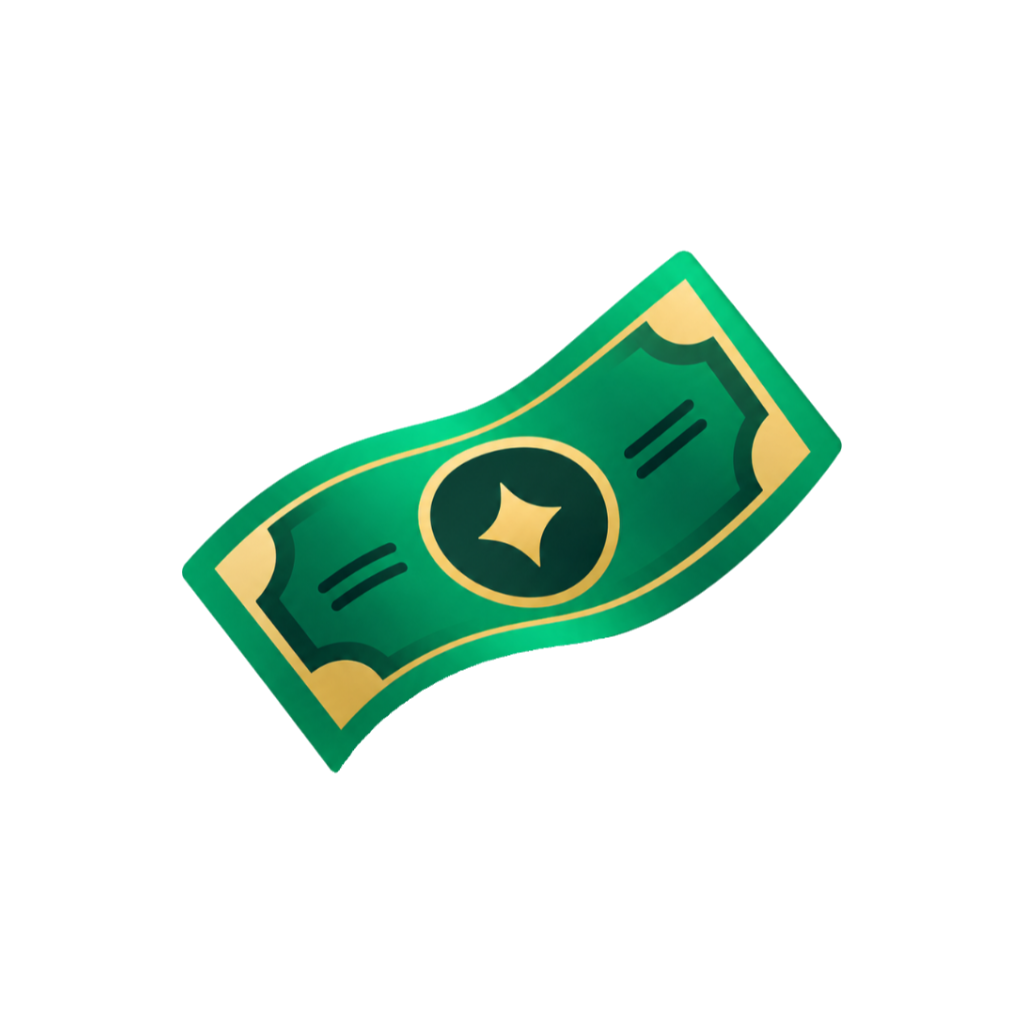
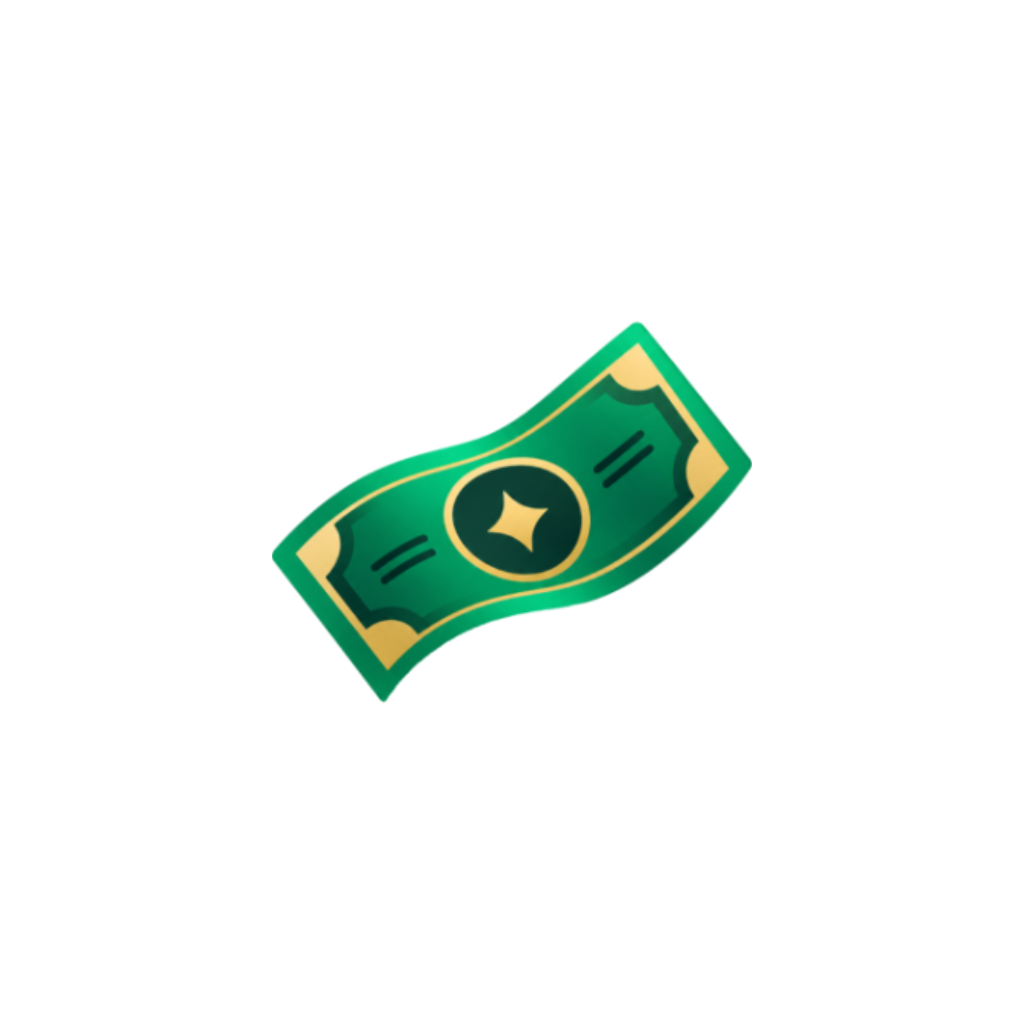
fix: instant test notification, reminder form keyboard scroll, and config updates

Changed region(s): [[0.1562, 0.25, 0.8438, 0.75]]

diff --git a/components/settings/ReminderManagerModal.tsx b/components/settings/ReminderManagerModal.tsx
@@ -1,4 +1,4 @@
-import React, { useState } from 'react';
+import React, { useState, useRef } from 'react';
 import {
   View,
   Text,
@@ -41,12 +41,27 @@ export function ReminderManagerModal({ visible, onClose }: ReminderManagerModalP
   const [minute, setMinute] = useState('00');
   const [label, setLabel] = useState('');
 
+  // Scroll ref for auto-scrolling when keyboard opens or accordion expands
+  const scrollViewRef = useRef<ScrollView>(null);
+
+  const scrollToBottom = () => {
+    setTimeout(() => {
+      scrollViewRef.current?.scrollToEnd({ animated: true });
+    }, 120);
+  };
+
   // Feedback state for test notification
   const [isTesting, setIsTesting] = useState(false);
   const [testFeedback, setTestFeedback] = useState<string | null>(null);
 
   const handleToggleAdd = () => {
-    setIsAdding((prev) => !prev);
+    setIsAdding((prev) => {
+      const next = !prev;
+      if (next) {
+        scrollToBottom();
+      }
+      return next;
+    });
   };
 
   const handleSaveReminder = async () => {
@@ -94,6 +109,7 @@ export function ReminderManagerModal({ visible, onClose }: ReminderManagerModalP
       maxHeight="88%"
     >
       <ScrollView
+        ref={scrollViewRef}
         showsVerticalScrollIndicator={false}
         keyboardShouldPersistTaps="handled"
         contentContainerStyle={{
@@ -191,6 +207,7 @@ export function ReminderManagerModal({ visible, onClose }: ReminderManagerModalP
                   <TextInput
                     value={hour}
                     onChangeText={setHour}
+                    onFocus={scrollToBottom}
                     keyboardType="number-pad"
                     maxLength={2}
                     placeholder="20"
@@ -210,6 +227,7 @@ export function ReminderManagerModal({ visible, onClose }: ReminderManagerModalP
                   <TextInput
                     value={minute}
                     onChangeText={setMinute}
+                    onFocus={scrollToBottom}
                     keyboardType="number-pad"
                     maxLength={2}
                     placeholder="00"
@@ -226,6 +244,7 @@ export function ReminderManagerModal({ visible, onClose }: ReminderManagerModalP
                 <TextInput
                   value={label}
                   onChangeText={setLabel}
+                  onFocus={scrollToBottom}
                   placeholder={translate('settings.reminders.namePlaceholder')}
                   placeholderTextColor={colors.textSecondary}
                   className="w-full min-h-[44px] px-3 py-2 rounded-xl bg-linen-surface dark:bg-cypress-card border border-linen-border dark:border-cypress-border text-xs text-linen-text-primary dark:text-cypress-text-primary font-medium"

diff --git a/lib/services/notifications.ts b/lib/services/notifications.ts
@@ -77,10 +77,15 @@ export function generateReminderMessage(
   };
 }
 
+let isNotificationChannelCreated = false;
+
 /**
  * Configure Android notification channel with custom chime sound
  */
 export async function setupNotificationChannelAsync(): Promise<void> {
+  if (isNotificationChannelCreated && Platform.OS === 'android') {
+    return;
+  }
   try {
     if (Platform.OS === 'android' || Platform.OS === 'web' || process.env.NODE_ENV === 'test') {
       await Notifications.setNotificationChannelAsync(REMINDER_CHANNEL_ID, {
@@ -91,6 +96,7 @@ export async function setupNotificationChannelAsync(): Promise<void> {
         lightColor: '#2563EB',
         enableVibrate: true,
       });
+      isNotificationChannelCreated = true;
     }
   } catch (err) {
     console.warn('[Notifications] setupNotificationChannelAsync warning:', err);
@@ -171,7 +177,7 @@ export async function syncScheduledAlarms(
 }
 
 /**
- * Trigger an immediate 1-second test notification
+ * Trigger an immediate test notification (<100ms) without AlarmManager batching
  */
 export async function triggerTestNotification(runwayDays: number): Promise<void> {
   try {
@@ -186,9 +192,6 @@ export async function triggerTestNotification(runwayDays: number): Promise<void>
         data: { isTest: true },
       },
       trigger: {
-        type: Notifications.SchedulableTriggerInputTypes.TIME_INTERVAL,
-        seconds: 1,
-        repeats: false,
         channelId: REMINDER_CHANNEL_ID,
       },
     });

diff --git a/lib/services/__tests__/notifications.test.ts b/lib/services/__tests__/notifications.test.ts
@@ -221,7 +221,7 @@ describe('Notification Service Functions', () => {
   });
 
   describe('triggerTestNotification', () => {
-    it('schedules an immediate test notification with 1 second delay', async () => {
+    it('schedules an immediate test notification via channel trigger', async () => {
       await triggerTestNotification(45);
       expect(Notifications.scheduleNotificationAsync).toHaveBeenCalledWith(
         expect.objectContaining({
@@ -230,9 +230,6 @@ describe('Notification Service Functions', () => {
             body: expect.stringContaining('45 hari'),
           }),
           trigger: {
-            type: Notifications.SchedulableTriggerInputTypes.TIME_INTERVAL,
-            seconds: 1,
-            repeats: false,
             channelId: 'cashrunway-reminders',
           },
         })

diff --git a/components/history/DeleteTransactionModal.tsx b/components/history/DeleteTransactionModal.tsx
@@ -52,7 +52,6 @@ export function DeleteTransactionModal({
       onClose={onClose}
       showCloseButton={true}
       maxWidth={380}
-      useNativeModal={false}
     >
       <View className="items-center mb-3">
         <View className="w-12 h-12 rounded-2xl bg-status-danger/10 border border-status-danger/25 items-center justify-center mb-2">
